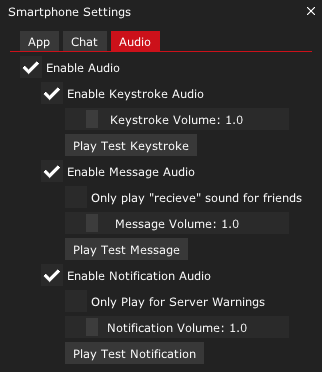
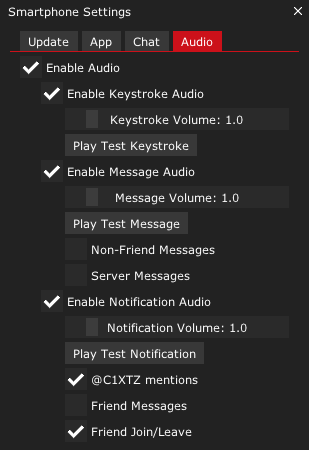
added app updater

diff --git a/README.md b/README.md
@@ -21,7 +21,7 @@ If you're looking for a more "oldschool" feel, try my [Mobilephone](https://gith
 - **Many adjustable settings as seen below - images might be outdated, always check ingame**
 
 <p align="center">
-<img width="185" src="https://raw.githubusercontent.com/C1XTZ/ac-smartphone/main/.github/img/appsettings.png"> <img width="185" src="https://raw.githubusercontent.com/C1XTZ/ac-smartphone/main/.github/img/preview.gif"> <img width="185" src="https://raw.githubusercontent.com/C1XTZ/ac-smartphone/main/.github/img/chatsettings.png"> <img width="185" src="https://raw.githubusercontent.com/C1XTZ/ac-smartphone/main/.github/img/audiosettings.png">
+<img width="150" src="https://raw.githubusercontent.com/C1XTZ/ac-smartphone/refs/heads/main/.github/img/updater.png"> <img width="150" src="https://raw.githubusercontent.com/C1XTZ/ac-smartphone/refs/heads/main/.github/img/appsettings.png"> <img width="150" src="https://raw.githubusercontent.com/C1XTZ/ac-smartphone/refs/heads/main/.github/img/preview.gif"> <img width="150" src="https://raw.githubusercontent.com/C1XTZ/ac-smartphone/refs/heads/main/.github/img/chatsettings.png"> <img width="150" src="https://raw.githubusercontent.com/C1XTZ/ac-smartphone/refs/heads/main/.github/img/audiosettings.png">
 </p>
 
 If you have any questions or suggestions, feel free to open an issue or pull request.  
